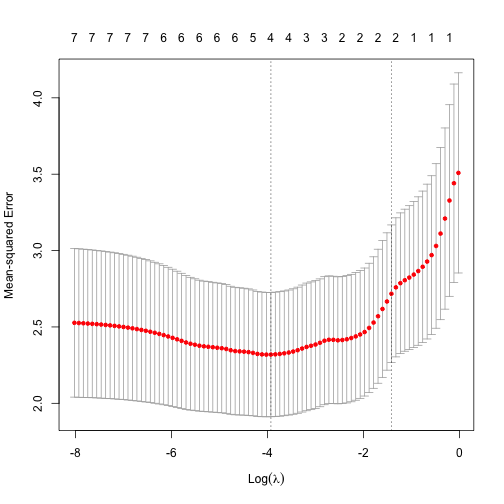
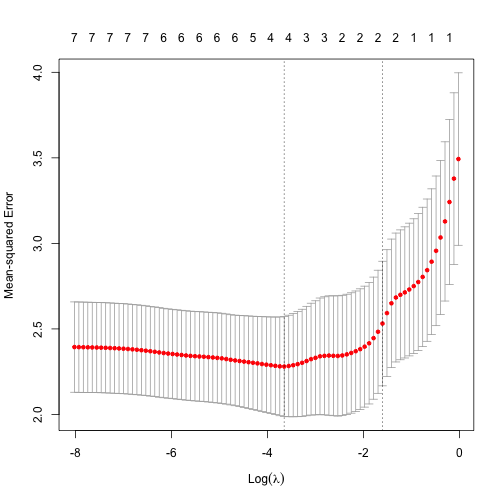
post machine learning lecture

diff --git a/lectures/23-ml.html b/lectures/23-ml.html
@@ -33,7 +33,7 @@ class: center, middle, inverse, title-slide
 
 ## Last time...
 
-- Resampling methods via Bootstrapping
+- Resampling methods via Bootstrapping (thank you Messi!)
 
 ## Today
 
@@ -112,8 +112,11 @@ class: center, middle
 --
 
 - ML classes in CS department
+
 - Wouter Kool for reinforcement learning (maybe Zach Reagh but don't quote me)
+
 - ACCSN with Dennis Barbour and myself for high level discussions on these topics
+
 - Poli Sci department for dealing with categorical outcomes
 
 ---
@@ -333,8 +336,8 @@ cv.model
 ## Summary of sample sizes: 107, 106, 106, 106, 107, 106, ... 
 ## Resampling results:
 ## 
-##   RMSE      Rsquared   MAE    
-##   1.536901  0.3451611  1.24317
+##   RMSE      Rsquared   MAE     
+##   1.540188  0.3782379  1.247221
 ## 
 ## Tuning parameter 'intercept' was held constant at a value of TRUE
 ```
@@ -648,8 +651,8 @@ cvfit
 ## Measure: Mean-squared Error 
 ## 
 ##      Lambda Index Measure     SE Nonzero
-## min 0.01968    43   2.319 0.4069       4
-## 1se 0.24256    16   2.717 0.4504       3
+## min 0.02601    40   2.280 0.2924       4
+## 1se 0.20138    18   2.531 0.3641       2
 ```
 
 ]

diff --git a/index.html b/index.html
@@ -322,6 +322,9 @@ $(document).ready(function () {
     <li>
       <a href="lectures/bootstrapping_lecture_messi.html">23-Resampling</a>
     </li>
+    <li>
+      <a href="lectures/23-ml.html">24-Machine Learning</a>
+    </li>
   </ul>
 </li>
 <li>

diff --git a/homework.html b/homework.html
@@ -397,6 +397,9 @@ div.tocify {
     <li>
       <a href="lectures/bootstrapping_lecture_messi.html">23-Resampling</a>
     </li>
+    <li>
+      <a href="lectures/23-ml.html">24-Machine Learning</a>
+    </li>
   </ul>
 </li>
 <li>

diff --git a/schedule.html b/schedule.html
@@ -397,6 +397,9 @@ div.tocify {
     <li>
       <a href="lectures/bootstrapping_lecture_messi.html">23-Resampling</a>
     </li>
+    <li>
+      <a href="lectures/23-ml.html">24-Machine Learning</a>
+    </li>
   </ul>
 </li>
 <li>
